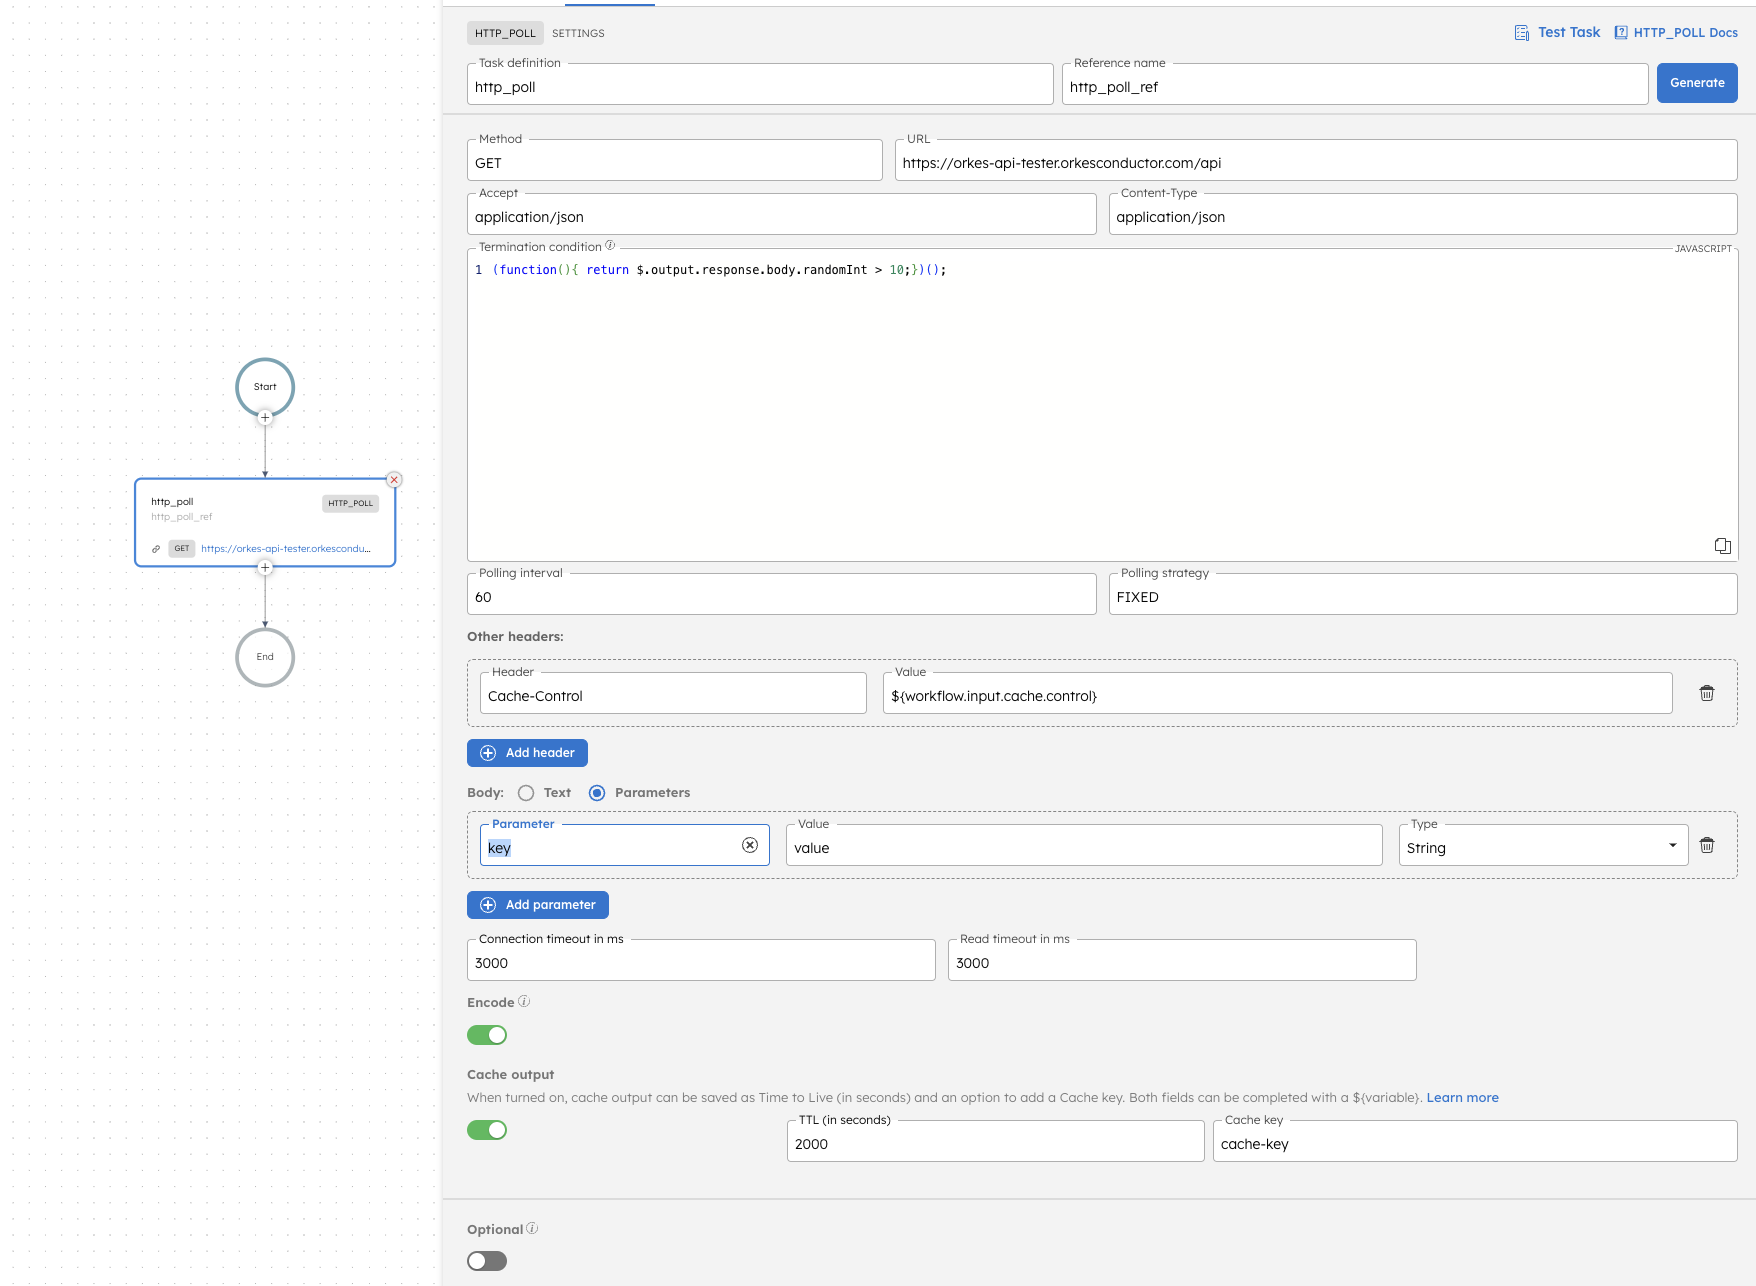
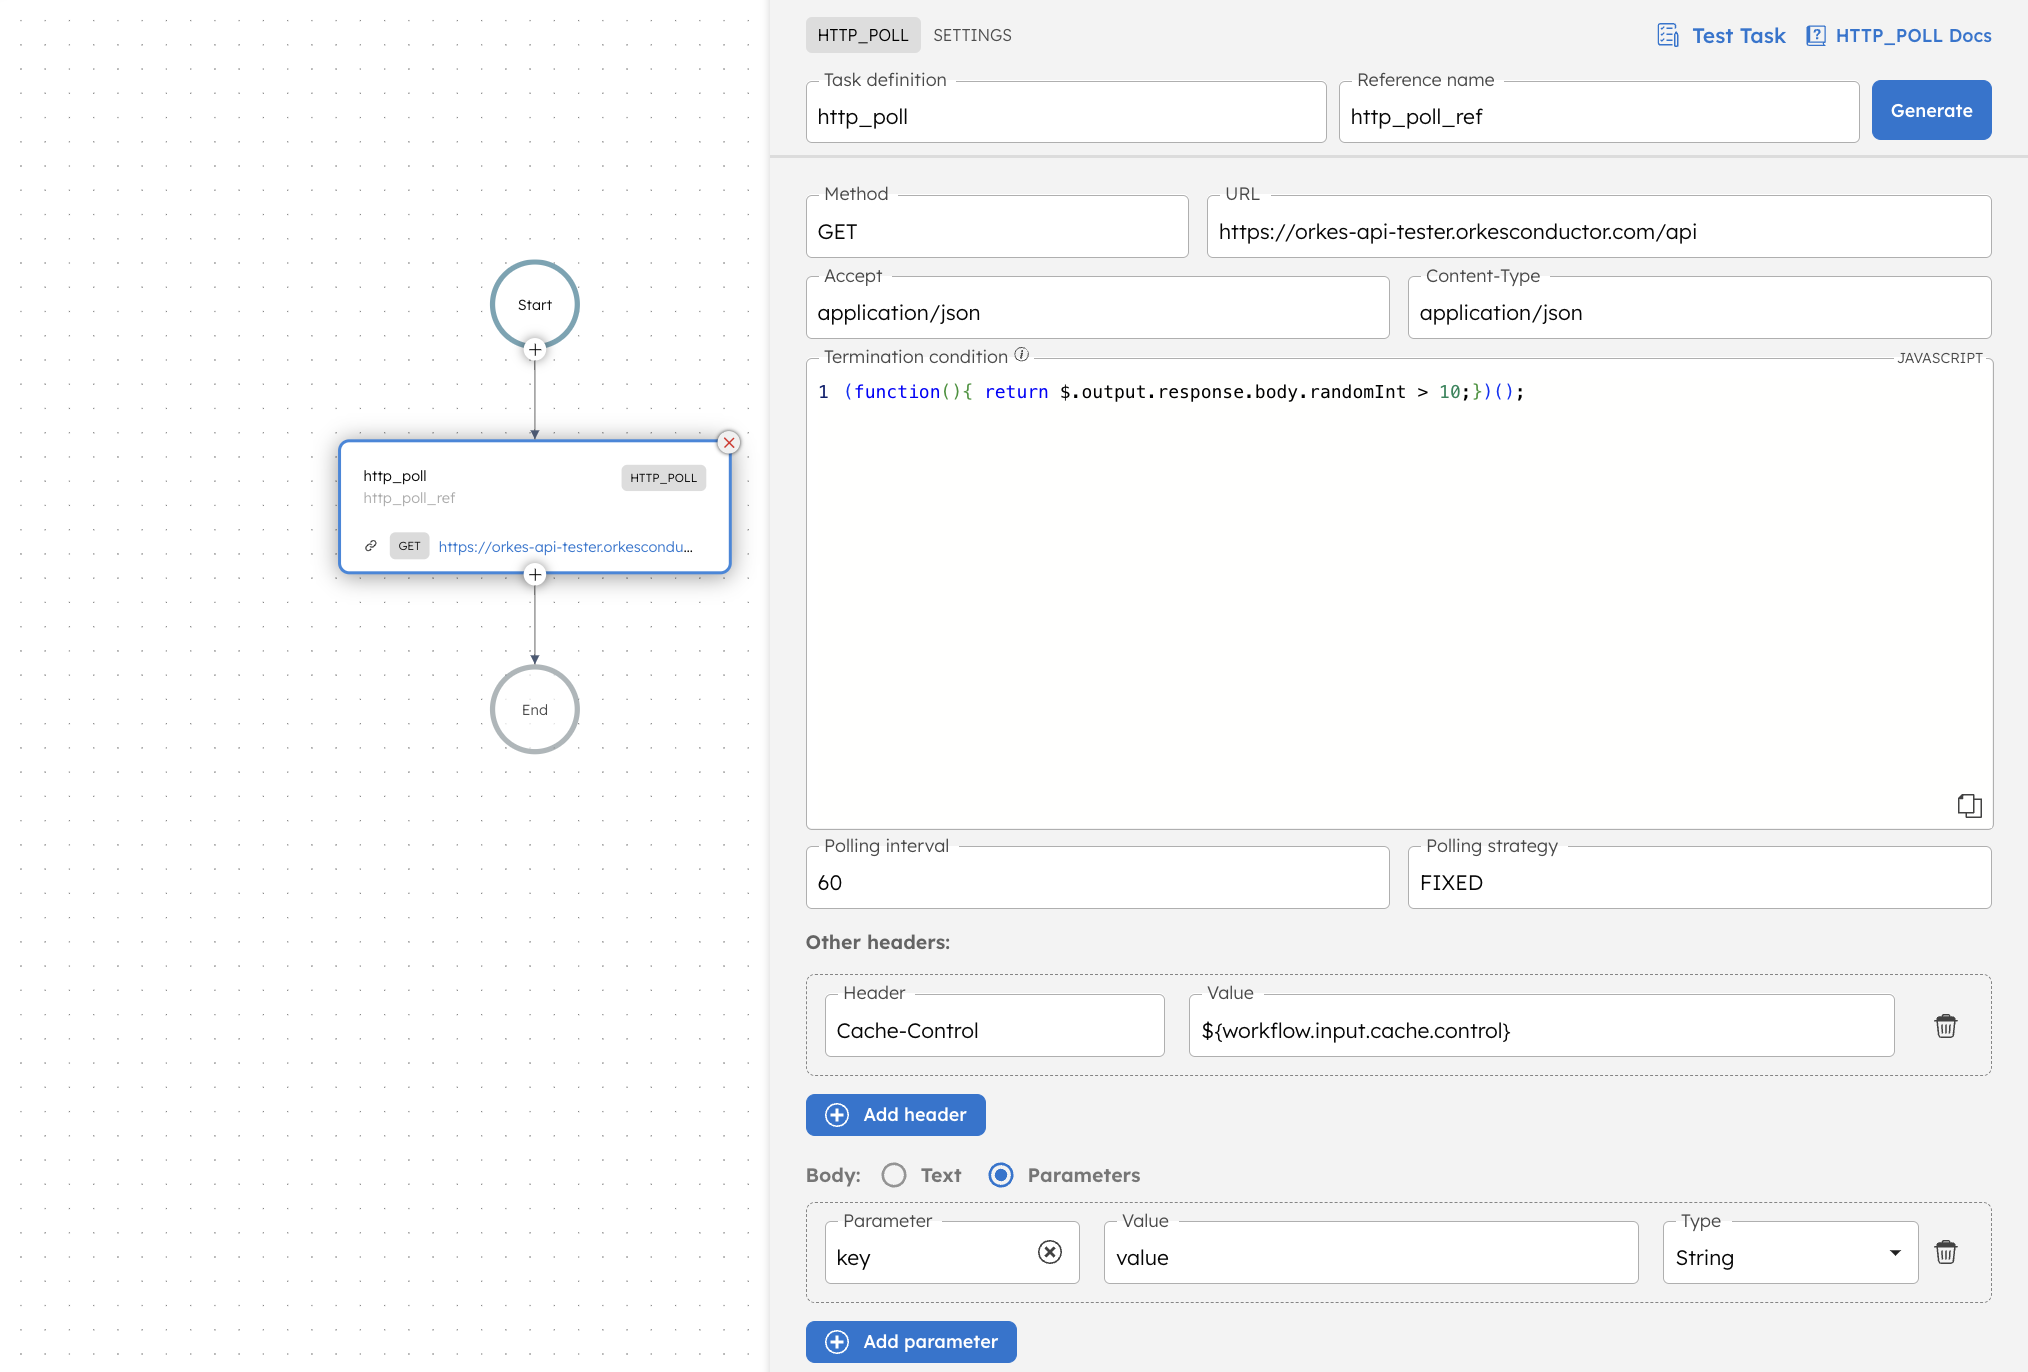
HTTP docs updates

diff --git a/docs/reference-docs/system-tasks/http.md b/docs/reference-docs/system-tasks/http.md
@@ -19,8 +19,6 @@ HTTP task allows for making calls to remote services exposed over HTTP/HTTPS.
      "inputParameters": {
        "uri": "https://orkes-api-tester.orkesconductor.com/api",
        "method": "GET",
-       "connectionTimeOut": 3000,
-       "readTimeOut": "3000",
        "accept": "application/json",
        "contentType": "application/json",
        "encode": true,
@@ -49,8 +47,6 @@ HTTP task allows for making calls to remote services exposed over HTTP/HTTPS.
 | contentType       | Provide the content type for the server. The supported types are:<ul><li>application/java-archive</li><li>application/EDI-X12</li><li>application/EDIFACT</li><li>application/javascript</li><li>application/octet-stream</li><li>application/ogg</li><li>application/pdf</li><li>application/xhtml+xml</li><li>application/x-shockwave-flash</li><li>application/json</li><li>application/ld+json</li><li>application/xml</li><li>application/zip</li><li>application/x-www-form-urlencoded</li><li>audio/mpeg</li><li>audio/x-ms-wma</li><li>audio/vnd.rn-realaudio</li><li>audio/x-wav</li><li>image/gif</li><li>image/jpeg</li><li>image/png</li><li>image/tiff</li><li>image/vnd.microsoft.icon</li><li>image/x-icon</li><li>image/vnd.djvu</li><li>image/svg+xml</li></ul>By default, it is set to **_application/json_**. You can also [pass this parameter as a variable](https://orkes.io/content/developer-guides/passing-inputs-to-task-in-conductor). |
 | headers           | A map of additional HTTP headers to be sent along with the request. The supported types are:<ul><li>Accept-Language</li><li>Authorization</li><li>Cache Control</li><li>Content-MD5</li><li>From</li><li>If-Match</li><li>If-Modified-Since</li><li>If-None-Match</li><li>Max-Forwards</li><li>Pragma</li><li>If-Range</li><li>If-Unmodified-Since</li><li>Proxy-Authorization</li><li>Range</li><li>Warning</li><li>x-api-key</li><li>Accept-Charset</li><li>Accept-Encoding</li><li>Accept-Control-Request-Headers</li><li>Accept-Control-Request-Method</li><li>Content-Transfer-Encoding</li><li>Expect</li><li>Transfer-Encoding</li><li>Trailer</li></ul> | 
 | body              | Request body when using POST, PUT, or PATCH. It can be added as _text_ (**"body": "text"**) or _parameters_ such as string, number, boolean, null, or object/array. | 
-| connectionTimeOut | Set the connection timeout in milliseconds. If set to 0, it is equivalent to infinity. By default, the value is set to 3000.                                                 |
-| readTimeOut       | Set the read timeout in milliseconds. If set to 0, it is equivalent to infinity. By default, the value is set to 3000.                                     |
 | encode | Determines whether the URI needs encoding. When set to true (the default), the Conductor will automatically encode the query parameters before sending the HTTP request.<br/><br/>Set this to false if the URI is already encoded. In this case, the Conductor will assume the query parameters are properly encoded and pass them to the HTTP endpoint as specified in the URI. |
 | cacheConfig | Enabling this option allows saving the cache output of the task. On enabling, you can provide the following parameters:<ul><li>**ttlInSecond** - Provide the time to live in seconds. You can also [pass this parameter as a variable](https://orkes.io/content/developer-guides/passing-inputs-to-task-in-conductor).</li><li>**key** - Provide the cache key, which is a string with parameter substitution based on the task input. You can also [pass this parameter as a variable](https://orkes.io/content/developer-guides/passing-inputs-to-task-in-conductor).</li></ul>|
 | optional | Enabling this option renders the task optional. The workflow continues unaffected by the task's outcome, whether it fails or remains incomplete. |
@@ -104,8 +100,6 @@ HTTP task allows for making calls to remote services exposed over HTTP/HTTPS.
      "inputParameters": {
        "uri": "https://orkes-api-tester.orkesconductor.com/api",
        "method": "GET",
-       "connectionTimeOut": 3000,
-       "readTimeOut": "3000",
        "accept": "application/json",
        "contentType": "application/json",
        "encode": true,
@@ -173,8 +167,6 @@ Here’s a sample workflow with “asynComplete” set to “true”:
        "http_request": {
          "uri": "https://orkes-api-tester.orkesconductor.com/api",
          "method": "GET",
-         "connectionTimeOut": 3000,
-         "readTimeOut": "3000",
          "accept": "application/json",
          "contentType": "application/json"
        }

diff --git a/docs/reference-docs/system-tasks/http-poll.md b/docs/reference-docs/system-tasks/http-poll.md
@@ -19,8 +19,6 @@ HTTP Poll task is used to invoke HTTP API endpoints until the specified conditio
        "http_request": {
          "uri": "https://orkes-api-tester.orkesconductor.com/api",
          "method": "GET",
-         "connectionTimeOut": 3000,
-         "readTimeOut": "3000",
          "accept": "application/json",
          "contentType": "application/json",
          "terminationCondition": "(function(){ return $.output.response.body.randomInt > 10;})();",
@@ -56,8 +54,6 @@ HTTP Poll task is used to invoke HTTP API endpoints until the specified conditio
 | pollingStrategy | Choose the required polling strategy. It can take any of the following values:<ul><li>**FIXED** - The duration between each HTTP API invocation will be fixed.</li><li>**LINEAR_BACKOFF** - The duration between each HTTP API invocation will be calculated by multiplying the poll count with pollingInterval. Note that the poll count is the incremental value based on each invocation.</li><li>**EXPONENTIAL_BACKOFF** - The duration between each HTTP API invocation will be calculated by multiplying the poll count by 2 base exponentials of the polling interval.</li></ul>By default, the value is set to FIXED. | 
 | headers           | A map of additional HTTP headers to be sent along with the request. The supported types are:<ul><li>Accept-Language</li><li>Authorization</li><li>Cache Control</li><li>Content-MD5</li><li>From</li><li>If-Match</li><li>If-Modified-Since</li><li>If-None-Match</li><li>Max-Forwards</li><li>Pragma</li><li>If-Range</li><li>If-Unmodified-Since</li><li>Proxy-Authorization</li><li>Range</li><li>Warning</li><li>x-api-key</li><li>Accept-Charset</li><li>Accept-Encoding</li><li>Accept-Control-Request-Headers</li><li>Accept-Control-Request-Method</li><li>Content-Transfer-Encoding</li><li>Expect</li><li>Transfer-Encoding</li><li>Trailer</li></ul> | 
 | body              | Request body when using POST, PUT, or PATCH. It can be added as _text_ (**"body": "text"**) or _parameters_ such as string, number, boolean, null, or object/array. | 
-| connectionTimeOut | Set the connection timeout in milliseconds. If set to 0, it is equivalent to infinity. By default, the value is set to 3000.                                                 |
-| readTimeOut       | Set the read timeout in milliseconds. If set to 0, it is equivalent to infinity. By default, the value is set to 3000.                                     |
 | encode | Determines whether the URI needs encoding. When set to true (the default), the Conductor will automatically encode the query parameters before sending the HTTP request.<br/><br/>Set this to false if the URI is already encoded. In this case, the Conductor will assume the query parameters are properly encoded and pass them to the HTTP endpoint as specified in the URI. |
 | cacheConfig | Enabling this option allows saving the cache output of the task. On enabling, you can provide the following parameters:<ul><li>**ttlInSecond** - Provide the time to live in seconds. You can also [pass this parameter as a variable](https://orkes.io/content/developer-guides/passing-inputs-to-task-in-conductor).</li><li>**key** - Provide the cache key, which is a string with parameter substitution based on the task input. You can also [pass this parameter as a variable](https://orkes.io/content/developer-guides/passing-inputs-to-task-in-conductor).</li></ul>|
 | optional | Enabling this option renders the task optional. The workflow continues unaffected by the task's outcome, whether it fails or remains incomplete. |
@@ -110,8 +106,6 @@ HTTP Poll task is used to invoke HTTP API endpoints until the specified conditio
        "http_request": {
          "uri": "https://orkes-api-tester.orkesconductor.com/api",
          "method": "GET",
-         "connectionTimeOut": 3000,
-         "readTimeOut": "3000",
          "accept": "application/json",
          "contentType": "application/json",
          "terminationCondition": "(function(){ return $.output.response.body.randomInt > 10;})();",
